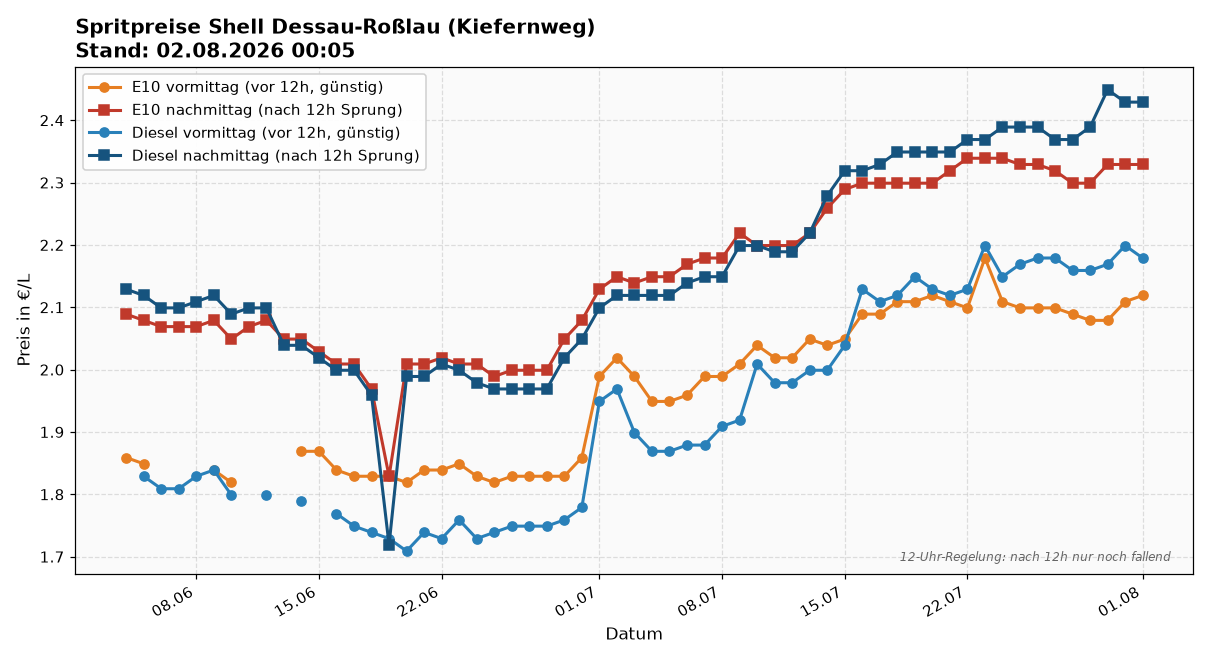
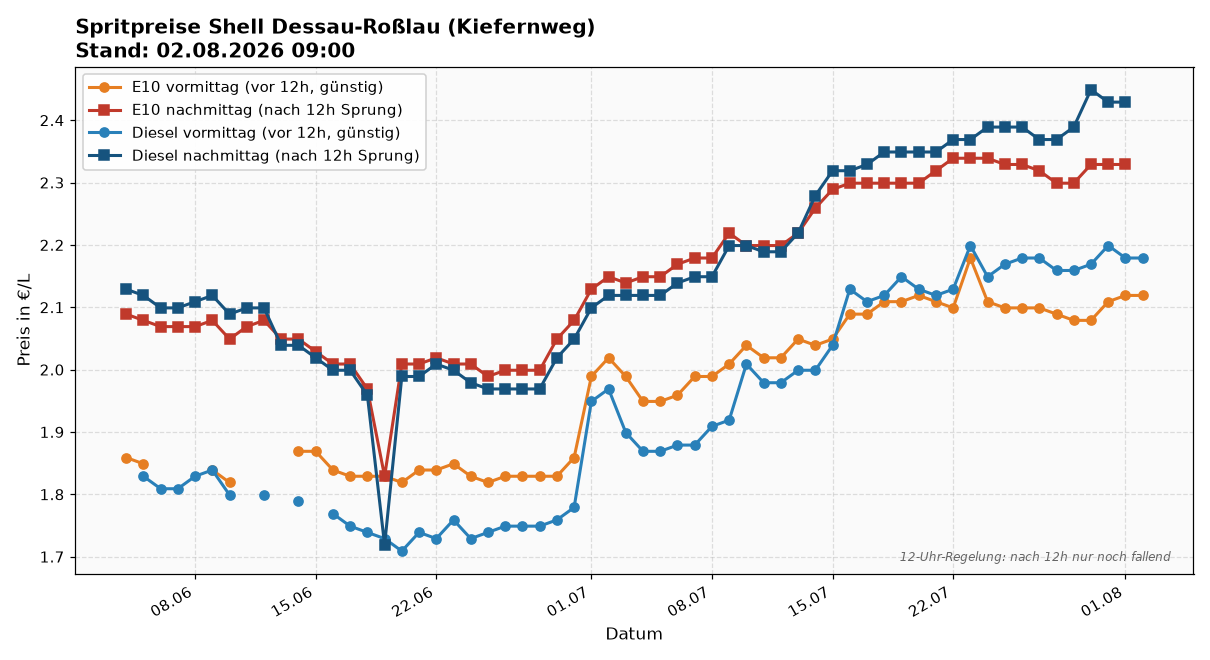
update: spritpreise 2026-08-02 09:00

diff --git a/index.html b/index.html
@@ -19,17 +19,17 @@
 </head>
 <body>
 <h1>🛢 Spritpreise Shell Dessau-Roßlau (Kiefernweg)</h1>
-<div class="sub">Source: Tankerkönig · Stand: 02.08.2026 00:05</div>
+<div class="sub">Source: Tankerkönig · Stand: 02.08.2026 09:00</div>
 
 <img src="latest.png" alt="Preisverlauf">
 
 <div class="latest">
   <strong>Heute (2026-08-02)</strong>
-  <div style="color:#888;font-style:italic;margin-bottom:0.5em;">Noch keine Messung heute — cron läuft 09:00 + 12:10.</div>
+  
   <table>
-    <tr><td>E10 vormittag</td><td class="price">— €</td></tr>
+    <tr><td>E10 vormittag</td><td class="price">2.119 €</td></tr>
     <tr><td>E10 nachmittag</td><td class="price">— €</td></tr>
-    <tr><td>Diesel vormittag</td><td class="price">— €</td></tr>
+    <tr><td>Diesel vormittag</td><td class="price">2.179 €</td></tr>
     <tr><td>Diesel nachmittag</td><td class="price">— €</td></tr>
   </table>
 </div>
